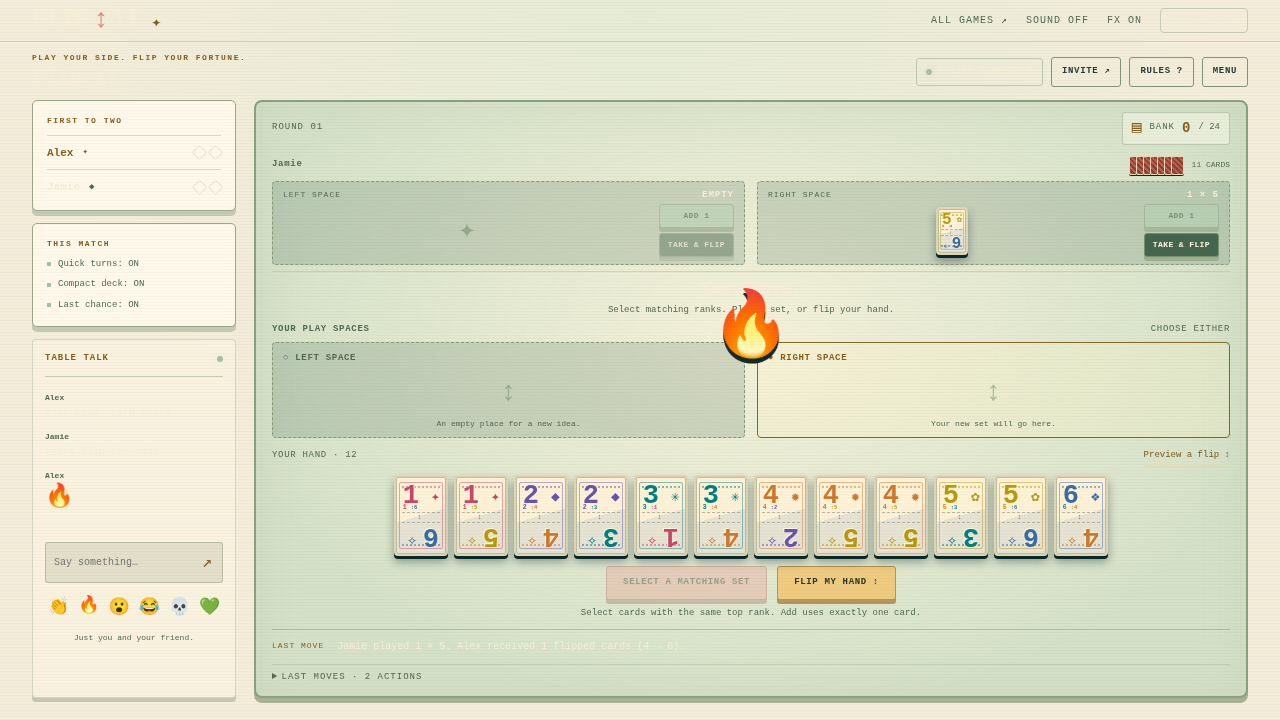
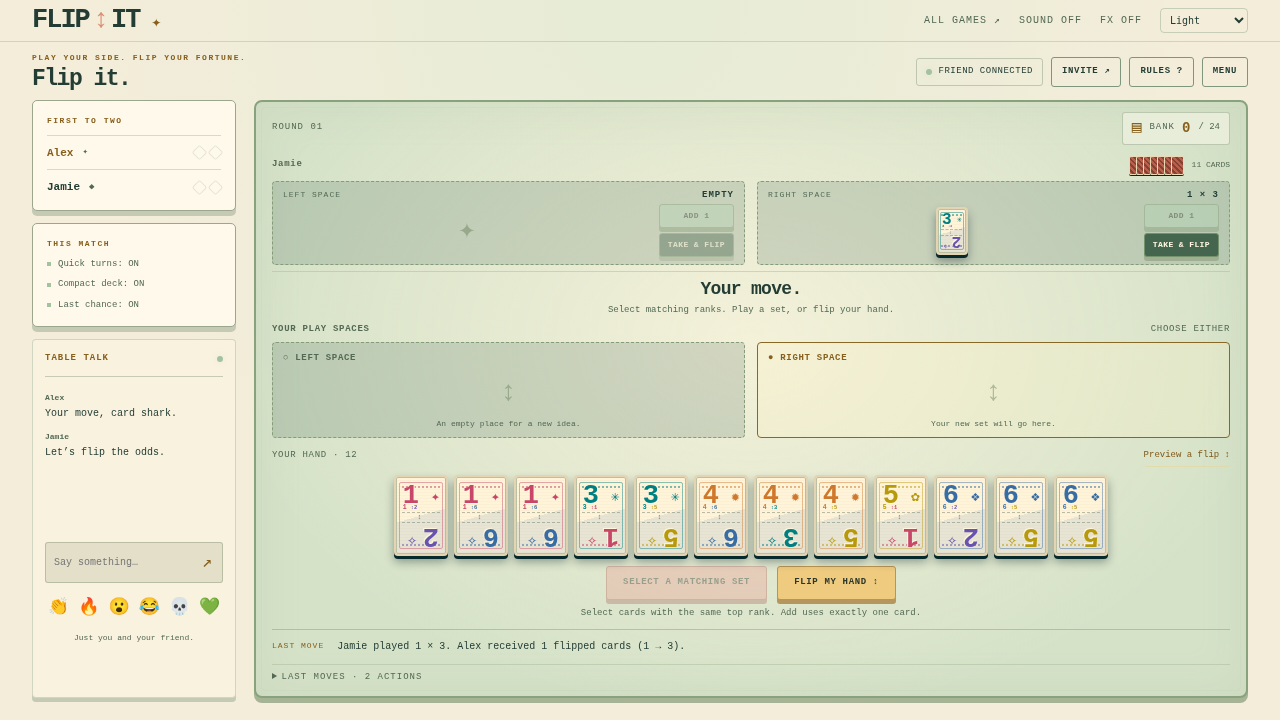
Correct light-theme ink and update the game collection preview

diff --git a/flip-it/style.css b/flip-it/style.css
@@ -10,7 +10,7 @@
 /* Pairing and rules remain keyboard and camera friendly. */
 dialog{width:min(590px,calc(100% - 28px));max-height:calc(100dvh - 36px);overflow:auto;padding:24px;border:2px solid #81a08a80;border-radius:6px;background:var(--panel);color:var(--paper);box-shadow:0 10px 0 #061c2060}dialog::backdrop{background:#05191dc9;backdrop-filter:blur(5px)}.modal-head{display:flex;align-items:start;justify-content:space-between;gap:15px;margin-bottom:15px}.modal-head h2{margin:0;font-size:27px}.close-button{background:none;border:1px solid var(--line);color:var(--muted);font-size:22px;width:30px;height:30px;line-height:1}.modal-copy{font-size:12px;color:var(--muted);line-height:1.8}.pair-steps{display:grid;grid-template-columns:repeat(3,1fr);gap:8px;margin-bottom:18px}.pair-step{border:1px solid var(--line);padding:10px 8px;font-size:8px;color:var(--muted);line-height:1.8}.pair-step.active{color:var(--gold);border-color:var(--gold)}dialog .button{margin-top:10px}dialog .button-row .button{flex:1}.link-output{font-size:10px;min-height:55px;max-height:100px}.qr-wrap{display:flex;justify-content:center;margin:18px auto 8px}.qr-wrap canvas{max-width:200px;height:auto;border:8px solid white;border-radius:3px;image-rendering:pixelated}.qr-note{font-size:9px;text-align:center;color:var(--muted)}.pair-error{background:#b0473540;border:1px solid #e0947060;color:#ffc6a5;padding:12px;font-size:11px;margin-top:12px}.team-choice{display:flex;gap:10px;align-items:start;background:#1c4438;padding:12px;border:1px solid var(--line);font-size:11px;margin:15px 0}.team-choice small{display:block;font-size:9px;color:var(--muted);margin-top:4px}.connection-settings{margin:14px 0;color:var(--muted);font-size:10px}.connection-settings summary{cursor:pointer}.connection-settings p{margin:12px 0;font-size:10px;line-height:1.7}.scan-video{display:block;width:100%;max-height:280px;margin-top:15px;border-radius:4px}.rules-list{padding-left:20px;font-size:12px;color:var(--muted);line-height:1.8}.rules-list li{margin-bottom:11px}.rules-list strong{color:var(--paper)}.rule-example{padding:15px;background:#234437;border:1px solid var(--line);font-size:11px;color:var(--muted);line-height:1.8}#toast{position:fixed;bottom:20px;left:50%;transform:translate(-50%,12px);z-index:150;max-width:calc(100% - 30px);background:var(--gold);color:var(--ink);padding:11px 18px;border-radius:4px;box-shadow:0 4px 0 #80633e;font-size:11px;opacity:0;pointer-events:none;transition:opacity .2s,transform .2s}#toast.visible{opacity:1;transform:translate(-50%,0)}
 /* Preserve the shared Light / Dark / System preference with the new artwork. */
-html[data-game=flip-it][data-color-theme=light]{--panel:#f9f2df;--shadow:#e4dfc9;--line:#627d5955;--gold:#88601d;--coral:#dc8f78;--muted:#536954;--mint:#a4c2a0}.in-game[data-color-theme=light]{background:#e7ecdb}html[data-game=flip-it][data-color-theme=light] .felt-table{background:radial-gradient(ellipse at 50% 40%,#f4f1d9,transparent 75%),#d5e2c8;border-color:#88a27e;box-shadow:inset 0 0 45px #a6b59830,0 5px 0 #a6b395}html[data-game=flip-it][data-color-theme=light] .bank{background:#e8edda;border-color:var(--line)}html[data-game=flip-it][data-color-theme=light] .option,html[data-game=flip-it][data-color-theme=light] .team-choice{background:#e8edda}html[data-game=flip-it][data-color-theme=light] .table-chat{box-shadow:0 4px 0 #c4cab4}html[data-game=flip-it][data-color-theme=light] .table-tip{color:var(--muted)}html[data-game=flip-it][data-color-theme=light] .intro h1{text-shadow:3px 4px #d6dcc6}html[data-game=flip-it][data-color-theme=light] .hero-stamp{background:var(--panel)}html[data-game=flip-it][data-color-theme=light] #chat-input{background:none}html[data-game=flip-it][data-color-theme=light] .appearance-control{background:none}html[data-game=flip-it][data-color-theme=light] .rule-example{background:#e7efd9}html[data-game=flip-it][data-color-theme=light] .space-empty{color:#607b5370}
+html[data-game=flip-it][data-color-theme=light]{color-scheme:light;--paper:#233d35;--felt:#f4edda;--ink:#182c2c;--panel:#f9f2df;--shadow:#e4dfc9;--line:#627d5955;--gold:#88601d;--coral:#dc8f78;--muted:#536954;--mint:#a4c2a0}.in-game[data-color-theme=light]{background:#e7ecdb}html[data-game=flip-it][data-color-theme=light] .felt-table{background:radial-gradient(ellipse at 50% 40%,#f4f1d9,transparent 75%),#d5e2c8;border-color:#88a27e;box-shadow:inset 0 0 45px #a6b59830,0 5px 0 #a6b395}html[data-game=flip-it][data-color-theme=light] .bank{background:#e8edda;border-color:var(--line)}html[data-game=flip-it][data-color-theme=light] .option,html[data-game=flip-it][data-color-theme=light] .team-choice{background:#e8edda}html[data-game=flip-it][data-color-theme=light] .table-chat{box-shadow:0 4px 0 #c4cab4}html[data-game=flip-it][data-color-theme=light] .table-tip{color:var(--muted)}html[data-game=flip-it][data-color-theme=light] .intro h1{text-shadow:3px 4px #d6dcc6}html[data-game=flip-it][data-color-theme=light] .hero-stamp{background:var(--panel)}html[data-game=flip-it][data-color-theme=light] #chat-input{background:none}html[data-game=flip-it][data-color-theme=light] .appearance-control{background:none}html[data-game=flip-it][data-color-theme=light] .rule-example{background:#e7efd9}html[data-game=flip-it][data-color-theme=light] .space-empty{color:#607b5370}
 @media(min-width:900px) and (max-height:780px){.topbar{height:50px}main{padding-top:18px}.intro{padding-top:12px}.intro h1{font-size:67px}.hero-art{height:230px}.hero-art .flip-card{--card-w:112px}.feature-line{padding-top:14px}.menu-bottom{margin-top:15px}.footer{padding-top:10px}.menu-layout>.panel{padding:18px}.option{padding:7px}.label{margin-top:10px}.lobby-ai{margin:11px 0}.in-game .topbar{height:42px}.in-game main{padding-top:10px}.game-heading{margin-bottom:8px}.game-heading h1{font-size:23px}.felt-table{padding:10px 16px 6px}.rivals-2{grid-template-columns:1fr 1fr}.rivals-2 .table-row{gap:6px}.rivals-2 .play-space{padding:5px}.rivals-2 .space-controls .button{padding:4px;font-size:7px}.hand{min-height:86px;padding-top:8px}.hand .flip-card{--card-w:54px;max-width:54px}.space-cards{min-height:50px}.space-cards .flip-card{--card-w:32px}.space-empty{min-height:45px}.table-instruction{margin-top:7px}.table-controls{margin-top:7px}.cash-note{margin-top:0}.table-chat{min-height:180px}#chat-list{max-height:145px}}
 @media(min-width:761px) and (max-height:780px){
   .table-size-4 .rivals .zone-title,.table-size-5 .rivals .zone-title{margin:3px 0;font-size:8px;min-height:15px}
@@ -41,4 +41,4 @@ html[data-game=flip-it][data-color-theme=light]{--panel:#f9f2df;--shadow:#e4dfc9
 @media(prefers-reduced-motion:reduce){*,*::before,*::after{animation:none!important;transition:none!important;scroll-behavior:auto!important}.grain{display:none}.reaction-bubble{animation:none;opacity:1}}.no-fx *{animation:none!important;transition:none!important}.no-fx .reaction-bubble{animation:none;opacity:1}
 
 .chance-instruction{color:var(--gold)}.chance-instruction small{color:var(--coral);font-weight:700}
-@media(min-width:761px){.hand.crowded{gap:2px}.hand.crowded .flip-card{--card-w:clamp(18px,calc(100cqw / var(--hand-count) - 2px),44px);width:var(--card-w);min-width:var(--card-w);max-width:44px;flex-shrink:0}}
+@media(min-width:761px){.hand.crowded{gap:2px;flex-wrap:wrap}.hand.crowded .flip-card{--card-w:clamp(18px,calc(100cqw / var(--hand-count) - 2px),44px);width:var(--card-w);min-width:var(--card-w);max-width:44px;flex-shrink:0}}

diff --git a/flip-it/PLAYTEST.md b/flip-it/PLAYTEST.md
@@ -72,6 +72,6 @@ Separate Chromium contexts connected using the actual game controls, through a t
 
 Focused browser checks exercised visible Play, Take, bank deposits, returned/flipped cards, whole-hand flips, anonymous opponent flips and live reactions. Chat drafts and caret focus survived an opponent move; HTML-shaped messages remained plain text. Reduced motion and FX OFF produced no flying-card overlays. Private handoffs contained no private card nodes or lingering overlays. Automatic reply acceptance on paste connected real peers. See [motion results](tests/retro-motion-results.json) and [layout results](tests/retro-layout-results.json).
 
-The active table fits without page scrolling at **1280 × 720**, **1366 × 768** and **1440 × 900**, including a five-seat full-deck table at 1280 × 720. Light and dark appearances were checked. Widths **320, 390, 768, 1280, 1366 and 1440** had no horizontal page overflow. Phones retain vertical scrolling, with cards wrapping and the chat below the table. Last chance replaces the normal turn prompt to preserve the compact table height.
+The active table fits without page scrolling at **1280 × 720**, **1366 × 768** and **1440 × 900**, including a five-seat full-deck table at 1280 × 720. Light and dark appearances were checked, including light-theme body ink. A DOM-only 40-card hand stress check stayed inside widths 768, 1280 and 1440. Widths **320, 390, 768, 1280, 1366 and 1440** had no horizontal page overflow. Phones retain vertical scrolling, with cards wrapping and the chat below the table. Last chance replaces the normal turn prompt to preserve the compact table height.
 
 Fresh screenshots of the lobby, solo table, multiplayer chat, five-player layout, phone layout, card motion, live reactions and light appearance are in [screenshots](screenshots/). The PR description embeds these images from the branch. Browser automation tools and the loopback test relay were kept outside the shipped game. Physical MacBook hardware, Safari, Firefox, phone cameras and external NAT/relay connectivity were not available for this verification.
